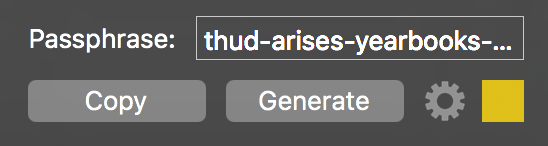
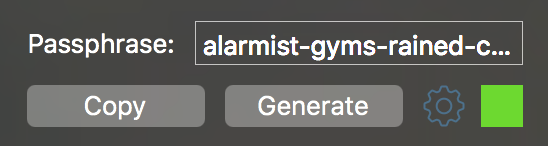
Updated help Fixed generate and copy hotkey strength messaging

diff --git a/Password Factory/Assets/PasswordFactory.help/Contents/Resources/en.lproj/index.html b/Password Factory/Assets/PasswordFactory.help/Contents/Resources/en.lproj/index.html
@@ -141,6 +141,7 @@
             	<h2>Widget</h2>
             	<img src="gfx/widget.png" class="window" width="274" />
             	<p>You can enable the widget by going to the notification center and clicking edit, and then you can add the "Password Factory" widget</p>
+                <img src="gfx/widget-add.png" class="window" width="308" />
             	<p>The widget will generate passwords based upon the configuration of the Password Factory application. Therefore, if the 'Passphrase' type is set, then the widget will generate a 'Passphrase' password using the current settings. The widget can only generate and copy passwords, and if you wish to change the password type go back to the application by clicking the gear and change settings from there.</p>
             </section>
             <section id="preferences">

diff --git a/Password Factory/ViewControllers/MasterViewController.m b/Password Factory/ViewControllers/MasterViewController.m
@@ -100,8 +100,8 @@ int const  GenerateAndCopyLoops  = 10;
     }
     self.passwordValue = pw;
     [self updatePasswordField];
-
-    [self.passwordStrengthLevel updateStrength:s];
+    //updateStrength takes 0-100 value
+    [self.passwordStrengthLevel updateStrength:s * 100];
 
     [self copyToPasteboard:nil];
     NSUserDefaults *d = [NSUserDefaults standardUserDefaults];
@@ -119,7 +119,7 @@ int const  GenerateAndCopyLoops  = 10;
 - (void)displayCopyNotification {
     NSUserNotification *notification = [[NSUserNotification alloc] init];
     [notification setTitle:@"Password Copied"];
-    [notification setInformativeText:[NSString stringWithFormat:@"Password with strength %2.0f copied to clipboard.",self.passwordStrengthLevel.strength]];
+    [notification setInformativeText:[NSString stringWithFormat:@"Password with strength %2.0f copied to clipboard.",self.passwordStrengthLevel.floatValue ]];
     [notification setDeliveryDate:[NSDate dateWithTimeInterval:0 sinceDate:[NSDate date]]];
     if ([[NSUserDefaults standardUserDefaults] boolForKey:@"globalHotkeyPlaySound"]) {
         [notification setSoundName:NSUserNotificationDefaultSoundName];

diff --git a/Password FactoryTests/MasterViewControllerTests.m b/Password FactoryTests/MasterViewControllerTests.m
@@ -180,6 +180,7 @@
     self.mvc.passwordValue = @"1";
     [self.mvc setPasswordStrength];
     float currStrength = self.mvc.passwordStrengthLevel.floatValue;
+    self.mvc.pg.passwordLength = 2;
     self.mvc.passwordValue = [self.mvc.pg generateRandom:YES avoidAmbiguous:YES useSymbols:YES];
     [self.mvc setPasswordStrength];
     XCTAssertNotEqual(currStrength, self.mvc.passwordStrengthLevel.floatValue, @"Password strength meter not updated with change");
